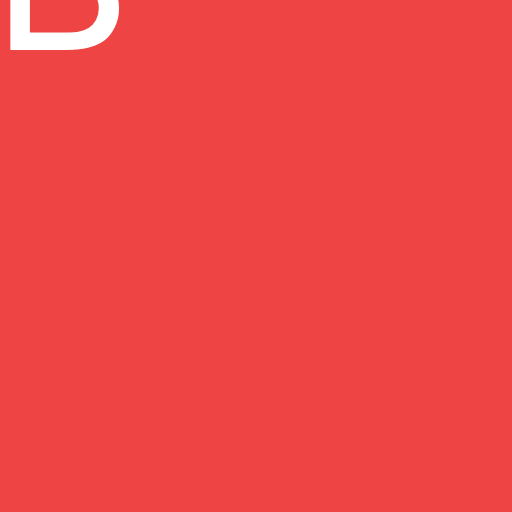
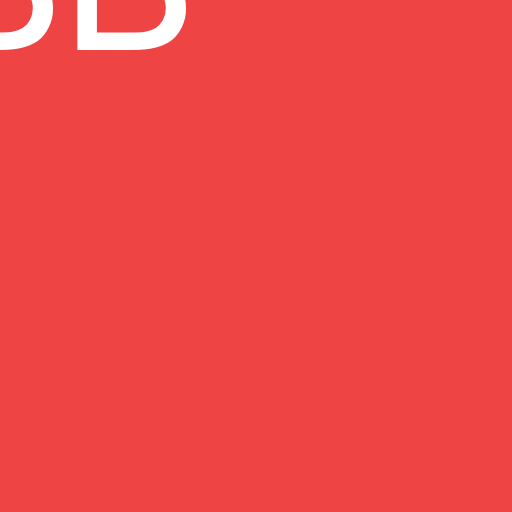
mobile app working

Changed region(s): [[0.0, 0.0, 0.375, 0.125]]

diff --git a/src/app/cashier/page.tsx b/src/app/cashier/page.tsx
@@ -30,13 +30,8 @@ export default function CashierPage() {
   const [cashGiven, setCashGiven] = useState('')
   const processingOrderRef = useRef(false)
 
-  const { data: menuItems } = trpc.menu.getAll.useQuery()
+  const { data: menuItems, isLoading: menuLoading } = trpc.menu.getAll.useQuery()
   const createOrder = trpc.order.create.useMutation()
-
-  // Debug: Log the data structure
-  console.log('menuItems:', menuItems)
-  console.log('menuItems type:', typeof menuItems)
-  console.log('Is array?', Array.isArray(menuItems))
 
   const addToCart = (item: any) => {
     // Always create a new cart entry to allow different customizations
@@ -182,9 +177,9 @@ export default function CashierPage() {
 
   const getCustomizations = (cartItemId: string) => {
     const cartItem = cart.find((i) => i.id === cartItemId)
-    if (!cartItem) return []
+    if (!cartItem || !menuItems) return []
 
-    const menuItem = menuItems?.find((m) => m.id === cartItem.menuItemId)
+    const menuItem = menuItems.find((m) => m.id === cartItem.menuItemId)
     if (!menuItem || !menuItem.customizationTemplates) return []
 
     return menuItem.customizationTemplates
@@ -233,22 +228,28 @@ export default function CashierPage() {
                 <CardDescription>Select items to add to order</CardDescription>
               </CardHeader>
               <CardContent>
-                <div className="grid gap-4 sm:grid-cols-2">
-                  {menuItems?.map((item) => (
-                    <Card key={item.id} className="cursor-pointer hover:border-primary">
-                      <CardHeader>
-                        <CardTitle className="text-lg">{item.name}</CardTitle>
-                        <CardDescription>${item.price.toFixed(2)}</CardDescription>
-                      </CardHeader>
-                      <CardContent>
-                        <Button onClick={() => addToCart(item)} className="w-full">
-                          <Plus className="mr-2 h-4 w-4" />
-                          Add to Order
-                        </Button>
-                      </CardContent>
-                    </Card>
-                  ))}
-                </div>
+                {menuLoading ? (
+                  <div className="text-center py-8 text-muted-foreground">Loading menu...</div>
+                ) : !menuItems || menuItems.length === 0 ? (
+                  <div className="text-center py-8 text-muted-foreground">No menu items available</div>
+                ) : (
+                  <div className="grid gap-4 sm:grid-cols-2">
+                    {menuItems.map((item) => (
+                      <Card key={item.id} className="cursor-pointer hover:border-primary">
+                        <CardHeader>
+                          <CardTitle className="text-lg">{item.name}</CardTitle>
+                          <CardDescription>${item.price.toFixed(2)}</CardDescription>
+                        </CardHeader>
+                        <CardContent>
+                          <Button onClick={() => addToCart(item)} className="w-full">
+                            <Plus className="mr-2 h-4 w-4" />
+                            Add to Order
+                          </Button>
+                        </CardContent>
+                      </Card>
+                    ))}
+                  </div>
+                )}
               </CardContent>
             </Card>
           </div>
@@ -313,7 +314,7 @@ export default function CashierPage() {
                           </div>
                         </div>
 
-                        {item.id === selectedItem && getCustomizations(item.id).length > 0 && (
+                        {!menuLoading && item.id === selectedItem && getCustomizations(item.id).length > 0 && (
                           <div className="space-y-2">
                             <div className="text-xs font-medium">Customizations:</div>
                             <div className="grid grid-cols-2 gap-1">
@@ -364,7 +365,7 @@ export default function CashierPage() {
                           </div>
                         )}
 
-                        {getCustomizations(item.id).length > 0 && (
+                        {!menuLoading && getCustomizations(item.id).length > 0 && (
                           <Button
                             size="sm"
                             variant="ghost"

diff --git a/src/app/kitchen/page.tsx b/src/app/kitchen/page.tsx
@@ -44,7 +44,7 @@ export default function KitchenPage() {
     }
   }
 
-  const formatTime = (date: Date) => {
+  const formatTime = (date: Date | string) => {
     const now = new Date()
     const diffMs = now.getTime() - new Date(date).getTime()
     const diffMins = Math.floor(diffMs / 60000)
@@ -233,14 +233,14 @@ export default function KitchenPage() {
                   <Button
                     className="flex-1 bg-green-600 hover:bg-green-700 text-white"
                     onClick={() => handleStatusUpdate(order.id, 'COMPLETED')}
-                    disabled={updateStatus.isLoading}
+                    disabled={updateStatus.isPending}
                   >
                     Mark as Ready
                   </Button>
                   <Button
                     className="flex-1 bg-blue-600 hover:bg-blue-700 text-white"
                     onClick={() => handleMarkAllUpToHere(order.id)}
-                    disabled={updateStatus.isLoading}
+                    disabled={updateStatus.isPending}
                   >
                     Mark All Up To Here
                   </Button>

diff --git a/src/server/routers/order.ts b/src/server/routers/order.ts
@@ -5,9 +5,9 @@ import { SquareClient, SquareEnvironment } from 'square'
 // Initialize Square client based on environment
 const isProduction = process.env.SQUARE_ENVIRONMENT === 'production'
 const squareClient = new SquareClient({
-  accessToken: isProduction
-    ? process.env.SQUARE_PROD_ACCESS_TOKEN
-    : process.env.SQUARE_SANDBOX_ACCESS_TOKEN,
+  token: isProduction
+    ? process.env.SQUARE_PROD_ACCESS_TOKEN || ''
+    : process.env.SQUARE_SANDBOX_ACCESS_TOKEN || '',
   environment: isProduction ? SquareEnvironment.Production : SquareEnvironment.Sandbox,
 })
 
@@ -131,7 +131,7 @@ export const orderRouter = router({
       }
 
       try {
-        const { result } = await squareClient.paymentsApi.createPayment({
+        const result = await squareClient.payments.create({
           sourceId: input.sourceId,
           amountMoney: {
             amount: BigInt(Math.round(order.total * 100)), // Convert to cents

diff --git a/src/app/providers.tsx b/src/app/providers.tsx
@@ -6,13 +6,22 @@ import { trpc } from '@/lib/trpc'
 import { httpBatchLink } from '@trpc/client'
 import { useState } from 'react'
 
+function getBaseUrl() {
+  if (typeof window !== 'undefined') {
+    // Browser should use relative path
+    return ''
+  }
+  // SSR should use localhost
+  return `http://localhost:${process.env.PORT ?? 3000}`
+}
+
 export function Providers({ children }: { children: React.ReactNode }) {
   const [queryClient] = useState(() => new QueryClient())
   const [trpcClient] = useState(() =>
     trpc.createClient({
       links: [
         httpBatchLink({
-          url: 'http://localhost:3000/api/trpc',
+          url: `${getBaseUrl()}/api/trpc`,
         }),
       ],
     })

diff --git a/src/server/trpc.ts b/src/server/trpc.ts
@@ -1,16 +1,17 @@
 import { initTRPC, TRPCError } from '@trpc/server'
-import { type CreateNextContextOptions } from '@trpc/server/adapters/next'
+import { type FetchCreateContextFnOptions } from '@trpc/server/adapters/fetch'
 import { getServerSession } from 'next-auth/next'
 import { authOptions } from '@/lib/auth'
 import { prisma } from '@/lib/prisma'
 
-export const createTRPCContext = async (opts: CreateNextContextOptions) => {
+export const createTRPCContext = async (opts: FetchCreateContextFnOptions) => {
   const session = await getServerSession(authOptions)
 
   return {
     session,
     prisma,
-    ...opts,
+    req: opts.req,
+    resHeaders: opts.resHeaders,
   }
 }
 

diff --git a/src/app/cashier/orders/page.tsx b/src/app/cashier/orders/page.tsx
@@ -15,7 +15,7 @@ export default function OrdersPage() {
     onSuccess: () => refetch(),
   })
 
-  const formatTime = (date: Date) => {
+  const formatTime = (date: Date | string) => {
     return new Date(date).toLocaleString()
   }
 
@@ -126,7 +126,7 @@ export default function OrdersPage() {
                       <Button
                         variant="destructive"
                         onClick={() => handleCancelOrder(order.id)}
-                        disabled={updateStatus.isLoading}
+                        disabled={updateStatus.isPending}
                       >
                         Cancel Order
                       </Button>

diff --git a/src/app/layout.tsx b/src/app/layout.tsx
@@ -8,6 +8,23 @@ const inter = Inter({ subsets: ['latin'] })
 export const metadata: Metadata = {
   title: 'Brigado Burger - Point of Sale System',
   description: 'Enterprise POS system for Brigado Burger restaurant',
+  manifest: '/manifest.json',
+  themeColor: '#ef4444',
+  viewport: {
+    width: 'device-width',
+    initialScale: 1,
+    maximumScale: 1,
+    userScalable: false,
+  },
+  appleWebApp: {
+    capable: true,
+    statusBarStyle: 'default',
+    title: 'Brigado POS',
+  },
+  icons: {
+    icon: '/icon-192x192.png',
+    apple: '/icon-192x192.png',
+  },
 }
 
 export default function RootLayout({

diff --git a/next.config.js b/next.config.js
@@ -1,4 +1,11 @@
 /** @type {import('next').NextConfig} */
+const withPWA = require('next-pwa')({
+  dest: 'public',
+  register: true,
+  skipWaiting: true,
+  disable: process.env.NODE_ENV === 'development',
+})
+
 const nextConfig = {
   reactStrictMode: true,
   experimental: {
@@ -6,6 +13,7 @@ const nextConfig = {
       enabled: true,
     },
   },
+  turbopack: {},
 }
 
-module.exports = nextConfig
+module.exports = withPWA(nextConfig)

diff --git a/src/app/order/page.tsx b/src/app/order/page.tsx
@@ -282,7 +282,7 @@ export default function OrderPage() {
                   className="w-full"
                   size="lg"
                   onClick={handleCheckout}
-                  disabled={cart.length === 0 || createOrder.isLoading}
+                  disabled={cart.length === 0 || createOrder.isPending}
                 >
                   <CreditCard className="mr-2 h-4 w-4" />
                   Place Order
